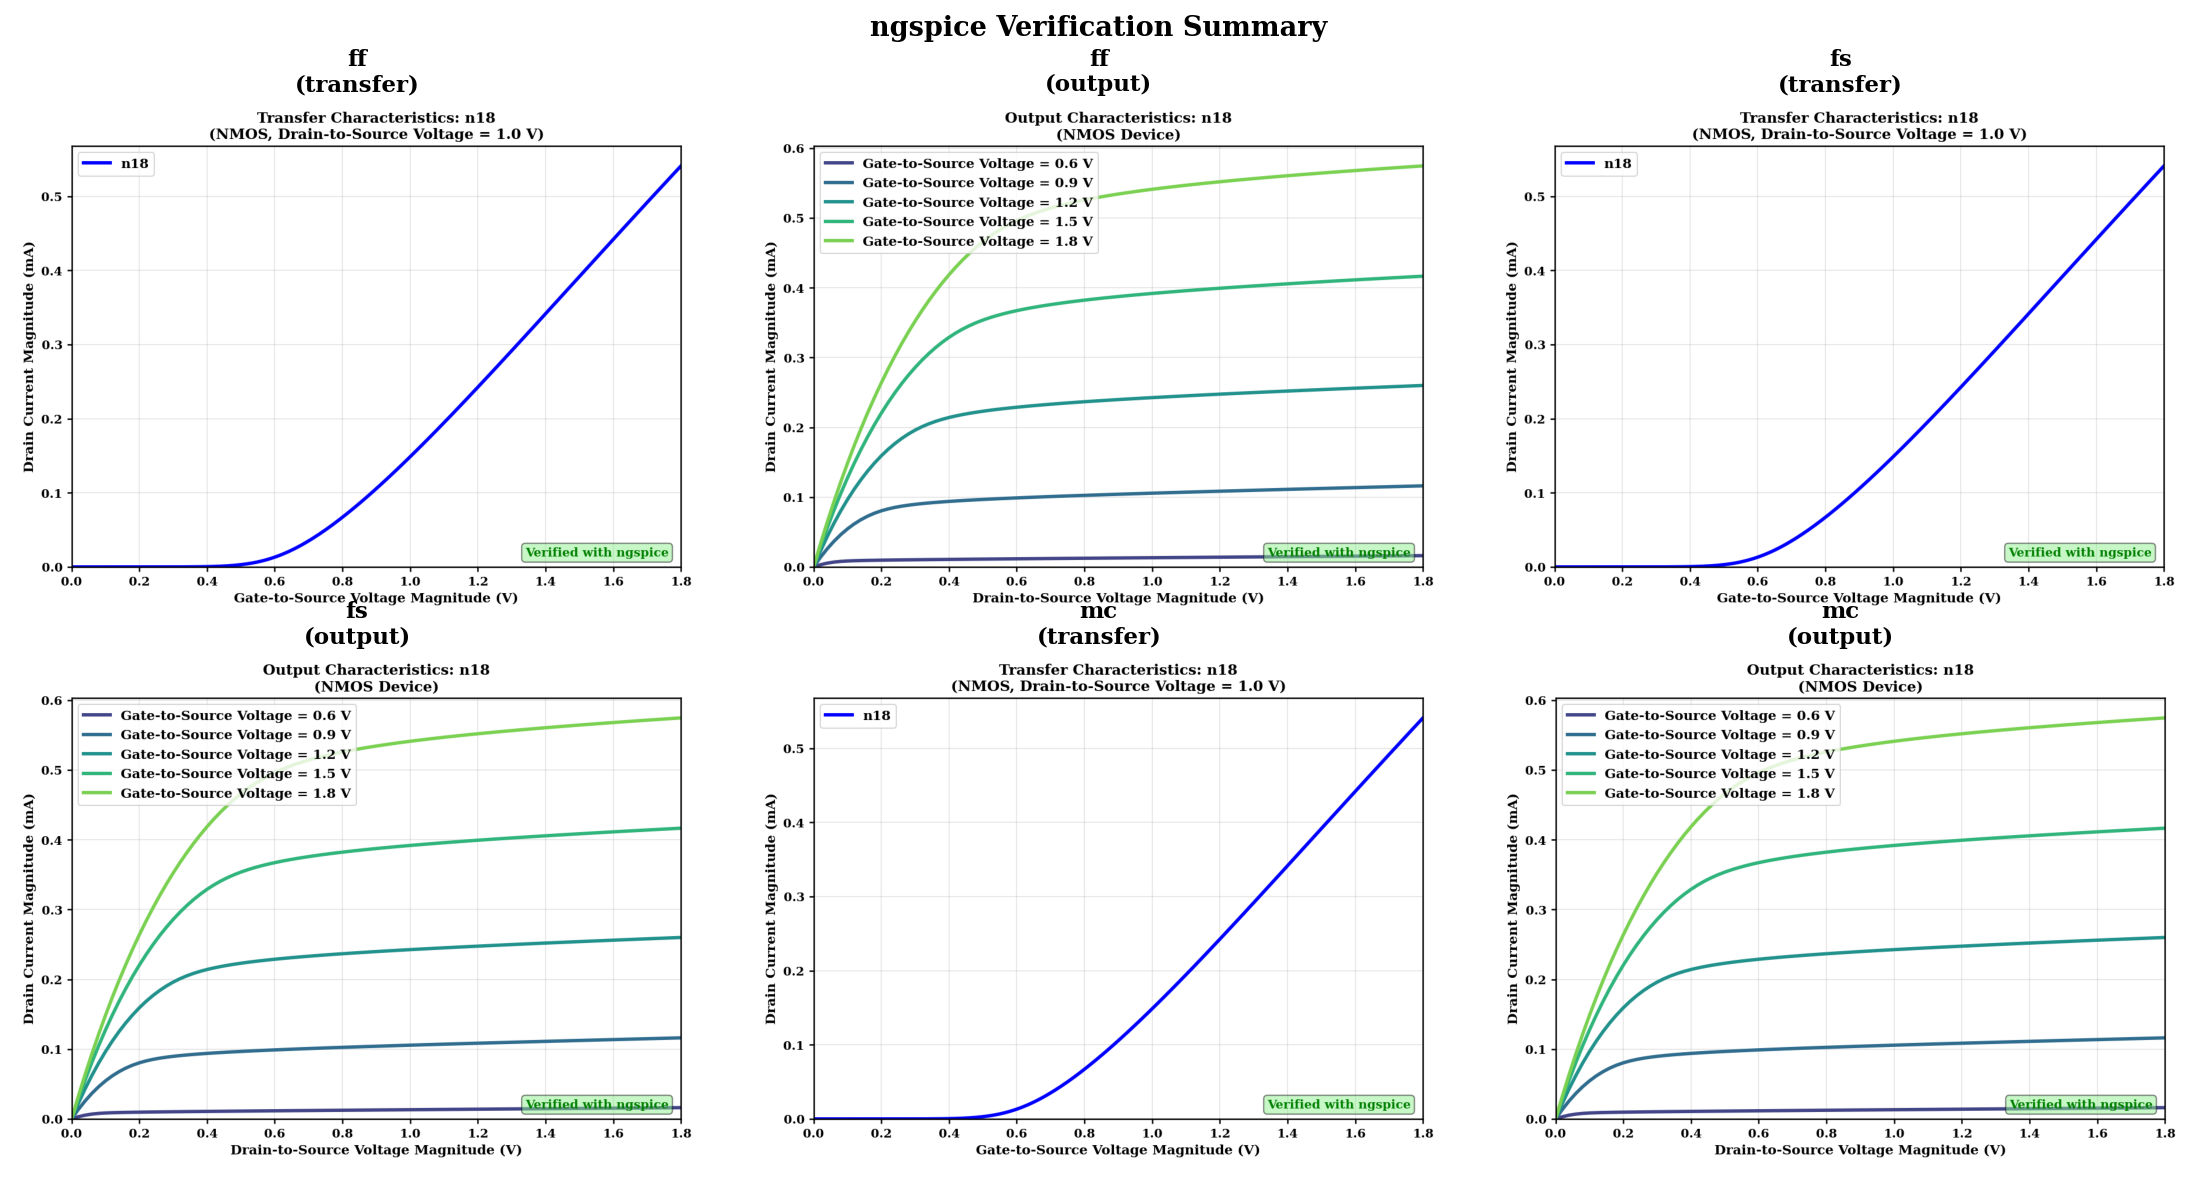
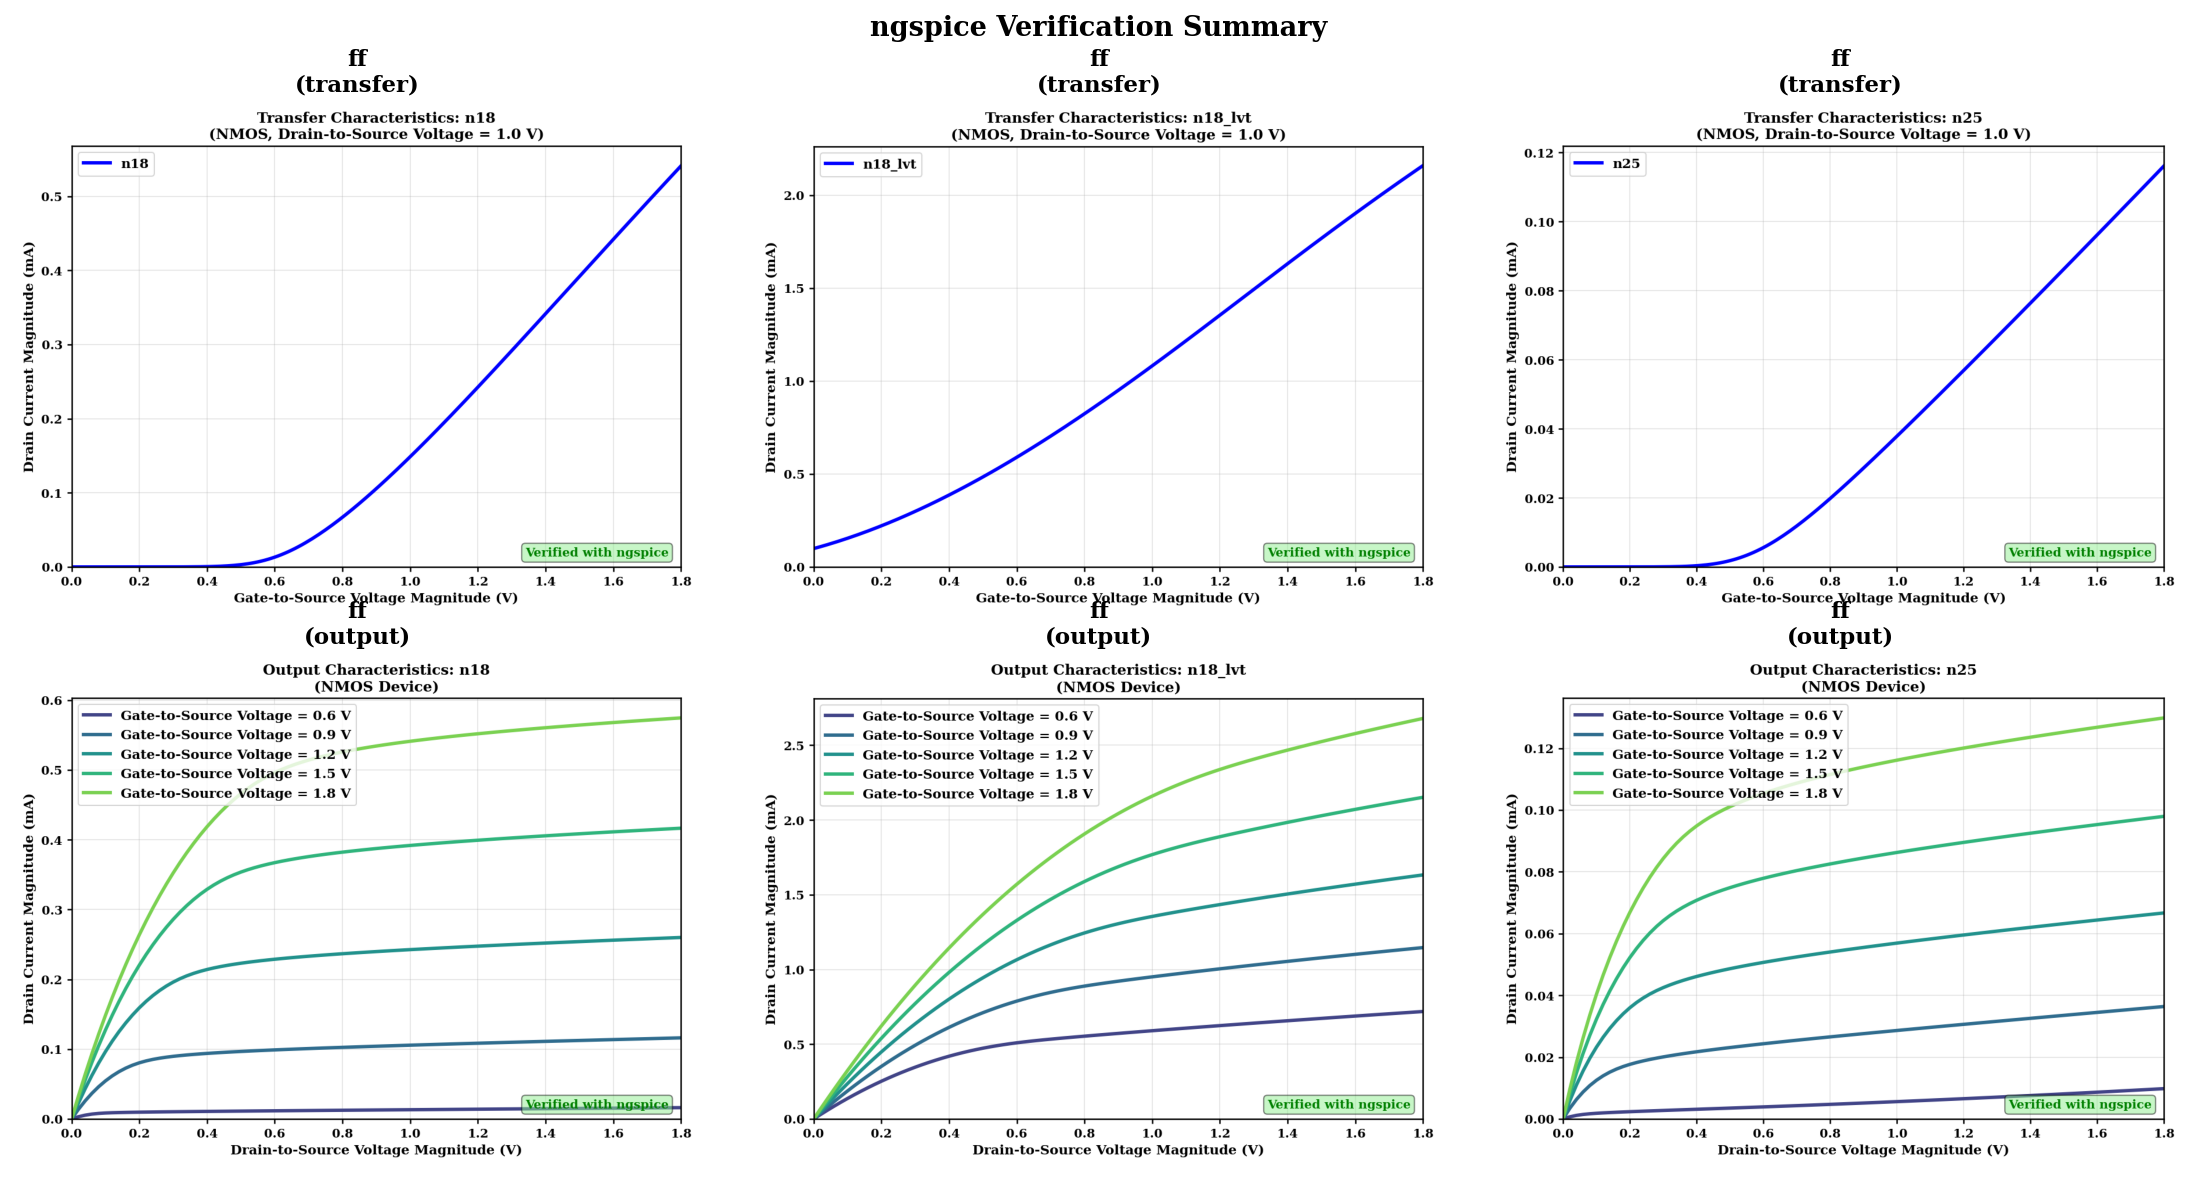
update

diff --git a/generate_verification_plots.py b/generate_verification_plots.py
@@ -85,6 +85,130 @@ class DeviceInfo:
     level: Optional[int] = None
 
 
+@dataclass
+class CurveQuality:
+    """Quality assessment result for a generated curve."""
+    valid: bool
+    reason: str = ""
+
+
+def _deduplicate_devices(devices: List[DeviceInfo]) -> List[DeviceInfo]:
+    """Deduplicate devices by (name, type), preferring model definitions over subcircuits."""
+    best: Dict[Tuple[str, str], Tuple[Tuple[int, int], DeviceInfo]] = {}
+
+    for device in devices:
+        key = (device.name.lower(), device.device_type)
+        score = (
+            1 if device.is_model else 0,
+            1 if device.level is not None else 0,
+        )
+        if key not in best or score > best[key][0]:
+            best[key] = (score, device)
+
+    return [best[k][1] for k in sorted(best.keys())]
+
+
+def _normalize_curve(x: np.ndarray, y: np.ndarray) -> Tuple[np.ndarray, np.ndarray]:
+    """Sort by x, remove non-finite entries, and collapse duplicate x-values."""
+    if len(x) == 0 or len(y) == 0:
+        return np.array([]), np.array([])
+
+    finite_mask = np.isfinite(x) & np.isfinite(y)
+    x = x[finite_mask]
+    y = y[finite_mask]
+    if len(x) == 0:
+        return np.array([]), np.array([])
+
+    order = np.argsort(x)
+    x = x[order]
+    y = y[order]
+
+    unique_x, inverse = np.unique(x, return_inverse=True)
+    if len(unique_x) == len(x):
+        return x, y
+
+    y_sum = np.zeros(len(unique_x), dtype=float)
+    counts = np.zeros(len(unique_x), dtype=float)
+    for idx, group_idx in enumerate(inverse):
+        y_sum[group_idx] += y[idx]
+        counts[group_idx] += 1.0
+
+    y_avg = y_sum / np.maximum(counts, 1.0)
+    return unique_x, y_avg
+
+
+def _assess_curve_quality(x: np.ndarray, y: np.ndarray, min_points: int = 12) -> CurveQuality:
+    """Reject low-information curves (flat/near-constant/insufficient)."""
+    if len(x) < min_points or len(y) < min_points:
+        return CurveQuality(False, f"insufficient points ({len(x)})")
+
+    x_span = float(np.ptp(x))
+    y_span = float(np.ptp(y))
+    y_scale = float(max(np.max(np.abs(y)), 1e-12))
+
+    if x_span <= 1e-9:
+        return CurveQuality(False, "x-axis span too small")
+
+    # Reject flat curves and near-flat curves with negligible variation.
+    if y_span <= max(1e-6, 0.01 * y_scale):
+        return CurveQuality(False, "y-axis variation too small")
+
+    y_std = float(np.std(y))
+    if y_std <= max(1e-7, 0.005 * y_scale):
+        return CurveQuality(False, "curve is near-constant")
+
+    return CurveQuality(True, "ok")
+
+
+def _is_duplicate_curve(x: np.ndarray, y: np.ndarray, accepted_curves: List[Tuple[np.ndarray, np.ndarray]]) -> bool:
+    """Return True if curve is effectively a duplicate of an existing curve."""
+    for ref_x, ref_y in accepted_curves:
+        low = max(float(np.min(x)), float(np.min(ref_x)))
+        high = min(float(np.max(x)), float(np.max(ref_x)))
+        if high <= low:
+            continue
+
+        grid = np.linspace(low, high, 180)
+        y_interp = np.interp(grid, x, y)
+        ref_interp = np.interp(grid, ref_x, ref_y)
+        scale = max(float(np.max(np.abs(y_interp))), float(np.max(np.abs(ref_interp))), 1e-12)
+        nrmse = float(np.sqrt(np.mean((y_interp - ref_interp) ** 2)) / scale)
+        if nrmse < 0.01:
+            return True
+    return False
+
+
+def _parse_numeric_row(line: str) -> Optional[List[float]]:
+    """Parse a wrdata line into numeric values if possible."""
+    if not line or line.startswith('#') or line.startswith('*'):
+        return None
+
+    numeric: List[float] = []
+    for token in line.split():
+        try:
+            numeric.append(float(token))
+        except ValueError:
+            continue
+    return numeric if len(numeric) >= 2 else None
+
+
+def _select_y_column(matrix: np.ndarray) -> int:
+    """Choose the most informative y-column and avoid x-duplicate columns."""
+    x_col = matrix[:, 0]
+    candidates: List[int] = []
+
+    for idx in range(1, matrix.shape[1]):
+        col = matrix[:, idx]
+        if not np.allclose(col, x_col, rtol=1e-8, atol=1e-12):
+            candidates.append(idx)
+
+    if not candidates:
+        candidates = list(range(1, matrix.shape[1]))
+
+    std_values = [float(np.std(matrix[:, idx])) for idx in candidates]
+    return candidates[int(np.argmax(std_values))]
+
+
 def _apply_ieee_axis_style(ax) -> None:
     """Apply IEEE-friendly visual styling for readability in papers."""
     ax.tick_params(axis='both', which='major', width=AXIS_LINE_WIDTH, length=4)
@@ -121,6 +245,12 @@ def _add_verification_stamp(ax) -> None:
         va='bottom',
         bbox=dict(boxstyle='round', facecolor='lightgreen', alpha=0.5),
     )
+
+
+def _prepare_output_files(*paths: Path) -> None:
+    """Remove old artifacts so failed/rejected runs cannot reuse stale data."""
+    for path in paths:
+        path.unlink(missing_ok=True)
 
 
 def extract_devices(lib_file: Path) -> List[DeviceInfo]:
@@ -279,38 +409,30 @@ def _is_supported_mos_device(device: DeviceInfo) -> bool:
 
 def parse_wrdata_output(data_file: Path) -> Tuple[np.ndarray, np.ndarray]:
     """Parse ngspice wrdata output file."""
-    x_data = []
-    y_data = []
-    
     if not data_file.exists():
         return np.array([]), np.array([])
-    
+
+    rows: List[List[float]] = []
     with open(data_file) as f:
         for line in f:
             line = line.strip()
-            if not line or line.startswith('#') or line.startswith('*'):
-                continue
-            parts = line.split()
-            if len(parts) >= 4:
-                # ngspice wrdata typically emits pairs: scale vec scale vec
-                # For "wrdata file x y", columns are commonly: x x y y.
-                # Use col0 for x and col2 for y to avoid plotting x vs x.
-                x_idx, y_idx = 0, 2
-            elif len(parts) >= 3:
-                # With wr_singlescale, ngspice often emits: sweep x y.
-                x_idx, y_idx = 0, 2
-            elif len(parts) >= 2:
-                x_idx, y_idx = 0, 1
-            else:
-                continue
+            parsed = _parse_numeric_row(line)
+            if parsed is not None:
+                rows.append(parsed)
 
-            try:
-                x_data.append(float(parts[x_idx]))
-                y_data.append(float(parts[y_idx]))
-            except ValueError:
-                continue
-    
-    return np.array(x_data), np.array(y_data)
+    if not rows:
+        return np.array([]), np.array([])
+
+    min_cols = min(len(row) for row in rows)
+    if min_cols < 2:
+        return np.array([]), np.array([])
+
+    matrix = np.array([row[:min_cols] for row in rows], dtype=float)
+    y_idx = _select_y_column(matrix)
+
+    x_data = matrix[:, 0]
+    y_data = matrix[:, y_idx]
+    return _normalize_curve(x_data, y_data)
 
 
 def generate_mos_idvgs_plot(
@@ -322,6 +444,7 @@ def generate_mos_idvgs_plot(
     
     data_file = output_dir / f"{device.name}_idvgs.dat"
     plot_file = output_dir / f"{device.name}_idvgs.png"
+    _prepare_output_files(data_file, plot_file)
     
     # Determine voltage ranges based on level
     if device.level and device.level >= 70:
@@ -418,6 +541,12 @@ quit
     # Convert to mA
     id_ma = np.abs(id_data) * 1000
     vgs_plot = np.abs(vgs) if is_pmos else vgs
+
+    quality = _assess_curve_quality(vgs_plot, id_ma)
+    if not quality.valid:
+        print(f"    ⚠  Rejected low-quality transfer curve for {device.name}: {quality.reason}")
+        data_file.unlink(missing_ok=True)
+        return None
     
     # Create plot
     fig, ax = plt.subplots(figsize=(8, 6), dpi=150)
@@ -458,6 +587,7 @@ def generate_mos_idvds_plot(
     """Generate MOS Id vs Vds output characteristic plot with multiple Vgs curves."""
     
     plot_file = output_dir / f"{device.name}_idvds.png"
+    _prepare_output_files(plot_file)
     
     # Determine voltage ranges
     if device.level and device.level >= 70:
@@ -474,9 +604,11 @@ def generate_mos_idvds_plot(
     is_pmos = device.device_type == 'pmos'
     
     all_curves = []
+    accepted_curves: List[Tuple[np.ndarray, np.ndarray]] = []
     
     for vgs in vgs_values:
         data_file = output_dir / f"{device.name}_idvds_vgs{vgs:.1f}.dat"
+        _prepare_output_files(data_file)
         
         if is_pmos:
             vds_range = f"-{vds_stop} 0 0.02"
@@ -537,11 +669,24 @@ quit
         if success and data_file.exists():
             vds, id_data = parse_wrdata_output(data_file)
             if len(vds) >= 5:
-                all_curves.append((vgs, np.abs(vds), np.abs(id_data) * 1000))
+                x_curve = np.abs(vds)
+                y_curve = np.abs(id_data) * 1000
+                quality = _assess_curve_quality(x_curve, y_curve)
+                if not quality.valid:
+                    print(f"    ⚠  Skipping Vgs={vgs:.1f}V curve for {device.name}: {quality.reason}")
+                elif _is_duplicate_curve(x_curve, y_curve, accepted_curves):
+                    print(f"    ⚠  Skipping duplicate Vgs={vgs:.1f}V curve for {device.name}")
+                else:
+                    accepted_curves.append((x_curve, y_curve))
+                    all_curves.append((vgs, x_curve, y_curve))
             data_file.unlink(missing_ok=True)
     
     if not all_curves:
         print(f"    ⚠  No curves generated for {device.name}")
+        return None
+
+    if len(all_curves) < 2:
+        print(f"    ⚠  Insufficient distinct output curves for {device.name}")
         return None
     
     # Create plot
@@ -591,6 +736,7 @@ def generate_bjt_gummel_plot(
     data_file_ic = output_dir / f"{device.name}_gummel_ic.dat"
     data_file_ib = output_dir / f"{device.name}_gummel_ib.dat"
     plot_file = output_dir / f"{device.name}_gummel.png"
+    _prepare_output_files(data_file_ic, data_file_ib, plot_file)
     
     is_pnp = device.device_type == 'pnp'
     vcc = -3.3 if is_pnp else 3.3
@@ -669,10 +815,32 @@ quit
     vbe_plot = np.abs(vbe_ic)
     ic_plot = np.abs(ic)
     ib_plot = np.abs(ib) if len(ib) > 0 else None
+
+    q_ic = _assess_curve_quality(vbe_plot, ic_plot)
+    if not q_ic.valid:
+        print(f"    ⚠  Rejected low-quality Gummel curve for {device.name}: {q_ic.reason}")
+        data_file_ic.unlink(missing_ok=True)
+        data_file_ib.unlink(missing_ok=True)
+        return None
+
+    ic_mask = ic_plot > 0
+    vbe_plot = vbe_plot[ic_mask]
+    ic_plot = ic_plot[ic_mask]
+    if len(vbe_plot) < 10:
+        print(f"    ⚠  Insufficient positive-current data for {device.name}")
+        data_file_ic.unlink(missing_ok=True)
+        data_file_ib.unlink(missing_ok=True)
+        return None
     
     ax.semilogy(vbe_plot, ic_plot, 'b-', linewidth=PLOT_LINE_WIDTH, label='Collector Current')
-    if ib_plot is not None and len(ib_plot) == len(vbe_plot):
-        ax.semilogy(vbe_plot, ib_plot, 'r--', linewidth=PLOT_LINE_WIDTH, label='Base Current')
+    if ib_plot is not None and len(ib_plot) > 0:
+        ib_x = np.abs(vbe_ib)
+        ib_y = np.abs(ib)
+        q_ib = _assess_curve_quality(ib_x, ib_y)
+        if q_ib.valid:
+            ib_mask = ib_y > 0
+            if np.count_nonzero(ib_mask) >= 10:
+                ax.semilogy(ib_x[ib_mask], ib_y[ib_mask], 'r--', linewidth=PLOT_LINE_WIDTH, label='Base Current')
 
     ax.set_xlabel('Base-to-Emitter Voltage Magnitude (V)', fontsize=IEEE_LABEL_FONT_SIZE, fontweight='bold')
     ax.set_ylabel('Current (A)', fontsize=IEEE_LABEL_FONT_SIZE, fontweight='bold')
@@ -708,6 +876,7 @@ def generate_diode_iv_plot(
     
     data_file = output_dir / f"{device.name}_iv.dat"
     plot_file = output_dir / f"{device.name}_iv.png"
+    _prepare_output_files(data_file, plot_file)
     
     if device.is_model:
         netlist = f"""* Diode I-V - {device.name}
@@ -765,11 +934,18 @@ quit
     if len(vd) < 5:
         data_file.unlink(missing_ok=True)
         return None
+
+    id_ma = id_data * 1000
+    quality = _assess_curve_quality(vd, id_ma)
+    if not quality.valid:
+        print(f"    ⚠  Rejected low-quality diode curve for {device.name}: {quality.reason}")
+        data_file.unlink(missing_ok=True)
+        return None
     
     # Create plot
     fig, ax = plt.subplots(figsize=(8, 6), dpi=150)
     
-    ax.plot(vd, id_data * 1000, 'b-', linewidth=PLOT_LINE_WIDTH)
+    ax.plot(vd, id_ma, 'b-', linewidth=PLOT_LINE_WIDTH)
 
     ax.set_xlabel('Diode Voltage (V)', fontsize=IEEE_LABEL_FONT_SIZE, fontweight='bold')
     ax.set_ylabel('Diode Current (mA)', fontsize=IEEE_LABEL_FONT_SIZE, fontweight='bold')
@@ -801,7 +977,7 @@ def process_library_file(lib_file: Path, max_devices: int = 3) -> Dict[str, List
     output_dir = lib_file.parent / "plots"
     output_dir.mkdir(parents=True, exist_ok=True)
     
-    devices = extract_devices(lib_file)
+    devices = _deduplicate_devices(extract_devices(lib_file))
     
     if not devices:
         print("    No devices found")
